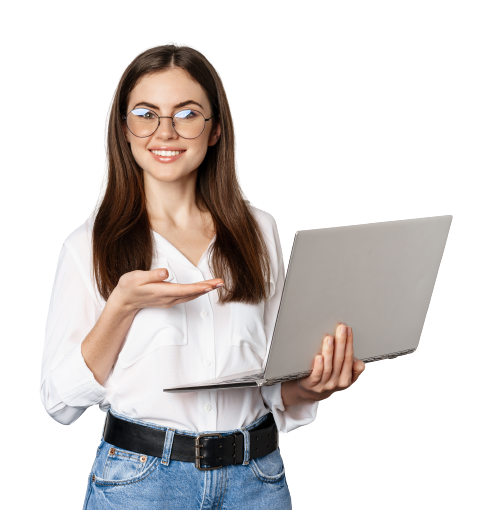
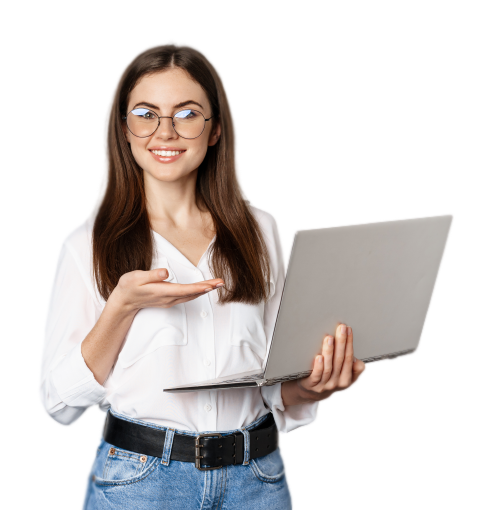
welcome

diff --git a/service.html b/service.html
@@ -1,0 +1,116 @@
+<!DOCTYPE html>
+<html lang="en">
+<head>
+    <meta charset="UTF-8">
+    <meta http-equiv="X-UA-Compatible" content="IE=edge">
+    <meta name="viewport" content="width=device-width, initial-scale=1.0">
+    <title>service</title>
+    <!-- bootstrap css -->
+
+    <link rel="stylesheet" href="./assets/Styles/css/bootstrap.min.css">
+    <link rel="stylesheet" href="./assets/Styles/css/bootstrap-icons.css">
+    <!-- font-awesome css -->
+    <link rel="stylesheet" href="./assets/Styles/css/all.min.css">
+    <!-- custom css -->
+    <link rel="stylesheet" href="./assets/Styles/css/styles.css">
+
+</head>
+<body>
+
+    <section class="service">
+        <div class="container-fluid">
+            <div class="row">
+                <div class="col-12">
+                    <div class="backHomeButton">
+                        <button onclick="location.href='index.html'" class="back-to-home" type="button">
+                            <i class="fa-solid fa-house"></i>
+                        </button>
+                    </div>
+                </div>
+            </div>
+        </div>
+        
+            
+        
+
+        
+    </section>
+
+
+
+
+    <!-- Footer Option -->
+
+        <section class="footer">
+            <!-- Footer -->
+            <footer class="" style="background:#1e2530;">
+                <div class="container ">
+                    <div class="row py-4">
+                        <div class="col-lg-4 col-md-6 mb-4 mb-lg-0"><!--<img src="img/logo.png" alt="" width="180" class="mb-3">-->
+                            <h6 class="text-uppercase font-weight-bold mb-4">contact us</h6>
+                            <p class="font-italic text-muted">Lorem ipsum dolor sit amet, consectetur <br>adipisicing elit, sed do eiusmod <br>tempor incididunt.</p>
+                            <ul class="list-inline mt-4">
+                                <li class="list-inline-item"><a href="#" target="_blank" title="twitter"><i class="fa-brands fa-twitter-square"></i></a></li>
+                                <li class="list-inline-item"><a href="#" target="_blank" title="facebook"><i class="fa-brands fa-facebook"></i></a></li>
+                                <li class="list-inline-item"><a href="#" target="_blank" title="instagram"><i class="fa-brands fa-instagram-square"></i></a></li>
+                                <li class="list-inline-item"><a href="#" target="_blank" title="pinterest"><i class="fa-brands fa-pinterest"></i></a></li>
+                                <li class="list-inline-item"><a href="#" target="_blank" title="vimeo"><i class="fa-brands fa-vimeo"></i></a></li>
+                            </ul>
+                        </div>
+                        <div class="col-lg-2 col-md-6 mb-4 mb-lg-0">
+                            <h6 class="text-uppercase font-weight-bold mb-4">Works</h6>
+                            <ul class="list-unstyled mb-0">
+                                <li class="mb-2"><a href="#" class="text-muted">Web Development</a></li>
+                                <li class="mb-2"><a href="#" class="text-muted">Web Design</a></li>
+                                <li class="mb-2"><a href="#" class="text-muted">Grapich Design</a></li>
+                                <li class="mb-2"><a href="#" class="text-muted">Our Blog</a></li>
+                            </ul>
+                        </div>
+                        <div class="col-lg-2 col-md-6 mb-4 mb-lg-0">
+                            <h6 class="text-uppercase font-weight-bold mb-4">Company</h6>
+                            <ul class="list-unstyled mb-0">
+                                <li class="mb-2"><a href="#" class="text-muted">Login</a></li>
+                                <li class="mb-2"><a href="#" class="text-muted">Register</a></li>
+                                <li class="mb-2"><a href="#" class="text-muted">Wishlist</a></li>
+                                <li class="mb-2"><a href="#" class="text-muted">Our Products</a></li>
+                            </ul>
+                        </div>
+                        <div class="col-lg-4 col-md-6 mb-lg-0">
+                            <h6 class="text-uppercase font-weight-bold mb-4">Newsletter</h6>
+                            <p class="text-muted mb-4">Lorem ipsum dolor sit amet, consectetur adipisicing elit. At itaque temporibus.</p>
+                            <div class="p-1 rounded border">
+                                <div class="input-group">
+                                    <input type="email" placeholder="Enter your email address" aria-describedby="button-addon1" class="form-control border-0 shadow-0">
+                                    <div class="input-group-append">
+                                        <button id="button-addon1" type="submit" class="btn btn-link"><i class="fa fa-paper-plane"></i></button>
+                                    </div>
+                                </div>
+                            </div>
+                        </div>
+                    </div>
+                </div>
+
+            <!-- Copyrights -->
+                <div class="py-4" style="background:#10141a;">
+                    <div class="container text-center">
+                        <p class="text-muted mb-0 py-2">© 2022 All rights reserved.</p>
+                    </div>
+                </div>
+            </footer>
+            
+        </section>
+
+         
+
+
+    
+    <!-- jquery -->
+    <script src="./assets/scripts/jquery.min.js"></script>
+    <!-- bootstrap min -->
+    <script src="./assets/scripts/bootstrap.min.js"></script>
+    <!-- bootstrap bundle -->
+    <script src="./assets/scripts/bootstrap.bundle.min.js"></script>
+    <!-- custom script -->
+    <script src="./assets/scripts/script.js"></script>
+</body>
+</html>

diff --git a/assets/Styles/css/styles.css b/assets/Styles/css/styles.css
@@ -1,4 +1,4 @@
-/*
+
 Author       : kaiser Mollah
 Template Name: Gitanjali Code Rhythm - Bootstrap Template
 Version      : 1.0
@@ -997,6 +997,12 @@ label {
     font-weight: bold;
     letter-spacing: 3px;
 }
+/*----------welcome left contant------------*/
+.welcome_img img{
+  width: 450px;
+}
+
+
 /*----------welcome right contant------------*/
 
 .wlc-con-right {
@@ -1034,9 +1040,37 @@ label {
 
 
 
+/*----------welcome media Query ----------*/
+
+/*X-Small devices (portrait phones, less than 576px)*/
+@media (max-width: 575.98px) { 
+  .welcome_img img{
+    width: 300px;
+    margin-left: 22px;
+  }
+  .wlc-heading h1 {
+    text-align: center;
+}
+.wlc-heading h3{
+    text-align: center;
+}
+.footer{
+
+  text-align: center;
+}
+}
+/* Medium devices (tablets, less than 992px)*/
+@media (max-width: 991.98px) { 
+  
+    .welcome_img img{
+      width: 300px;
+  }
+}
 
 
 
+
+/*---------------------------welcome End---------------------*/
 
 
 
@@ -1263,4 +1297,4 @@ label {
 }
 /*----------------------------------------------------
                     Footer End           
-------------------------------------------------------*/
+------------------------------------------------------

diff --git a/index.html b/index.html
@@ -29,7 +29,7 @@
                 <ul>
                     <li><a href="index.html">Home</a></li>
                     <li><a href="about.html">About</a></li>
-                    <li><a href="#">Services</a></li>
+                    <li><a href="service.html">Services</a></li>
                     <li><a href="#">Works</a></li>
                     <li><a href="#">Contact</a></li>
                 </ul>
@@ -117,7 +117,7 @@
                                                     <div></div>
                                                     <div></div>
                                                 </div>
-                                                <a  class="gcr-content">
+                                                <a  class="gcr-content" href="service.html">
                                                     <span class="gcr-content-inner">
                                                         <span class="icon">
                                                             <i class="fa-solid fa-braille"></i>

diff --git a/welcome.html b/welcome.html
@@ -41,7 +41,10 @@
         <div class="container">
             <div class="row">
                     <div class="col-md-6">
-                        <img src="assets/images/welcome.jpg" alt="image">
+                        <div class="welcome_img">
+                            <img  src="assets/images/welcome.png" alt="image">
+                        </div>
+                        
                     </div>
                     <div class="col-md-6">
                         <div class="wlc-con-right">

diff --git a/about.html b/about.html
@@ -4,7 +4,7 @@
     <meta charset="UTF-8">
     <meta http-equiv="X-UA-Compatible" content="IE=edge">
     <meta name="viewport" content="width=device-width, initial-scale=1.0">
-    <title>about us</title>
+    <title>about</title>
     <!-- bootstrap css -->
  
     <link rel="stylesheet" href="./assets/Styles/css/bootstrap.min.css">
